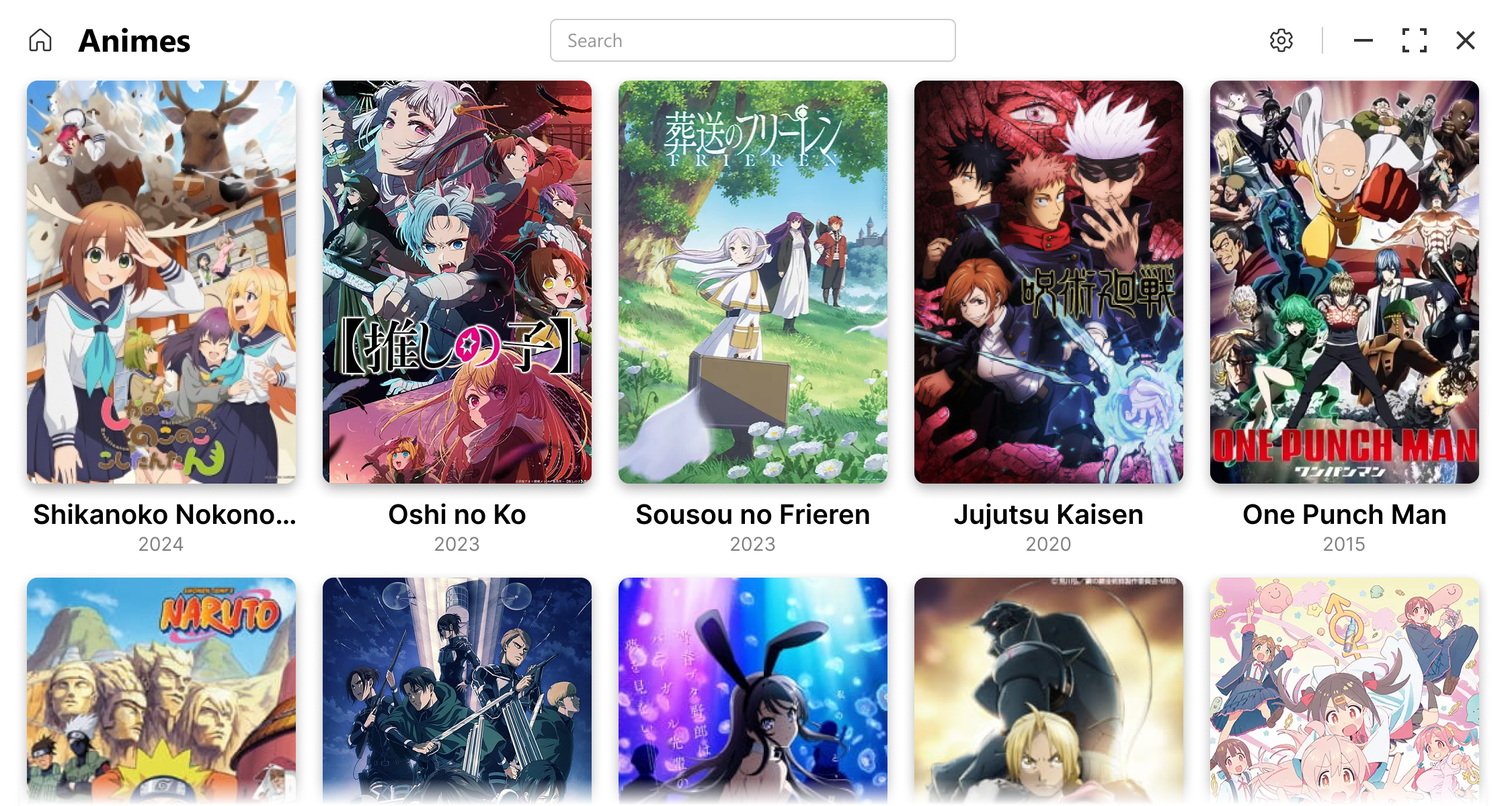
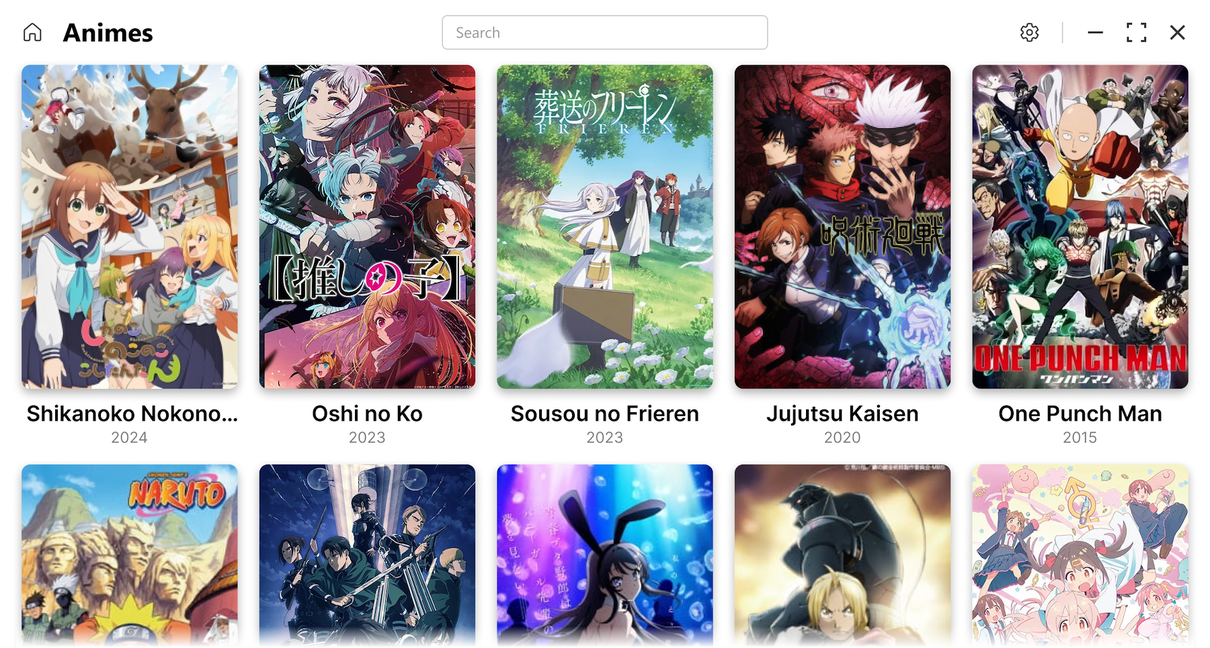
feat: optimized images

diff --git a/pages/index.vue b/pages/index.vue
@@ -42,9 +42,9 @@
       <div class="kanji mei" :class="theme">明</div>
       <div class="images">
         <NuxtImg src="app.png" alt="app preview" :class="{ current: theme == 'light' }" width="900" sizes="900px"
-          height="484" />
+          height="482" />
         <NuxtImg src="app_dark.png" alt="app preview" class="dark" :class="{ current: theme == 'dark' }" width="900"
-          sizes="900px" height="484" />
+          sizes="900px" height="482" />
       </div>
     </section>
     <section class="text">
@@ -298,6 +298,7 @@ function relativeTimeFromNow(dateString: string): string {
 
       img {
         width: 900px;
+        height: 482px;
         border: 2px solid #00000020;
         border-radius: 12px;
 
